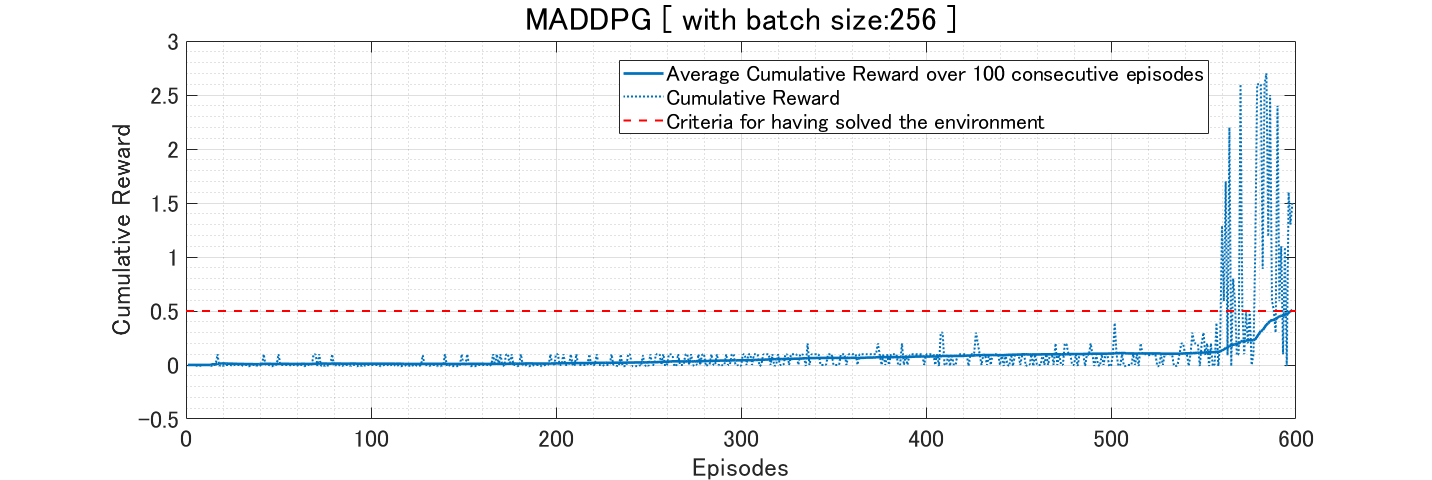
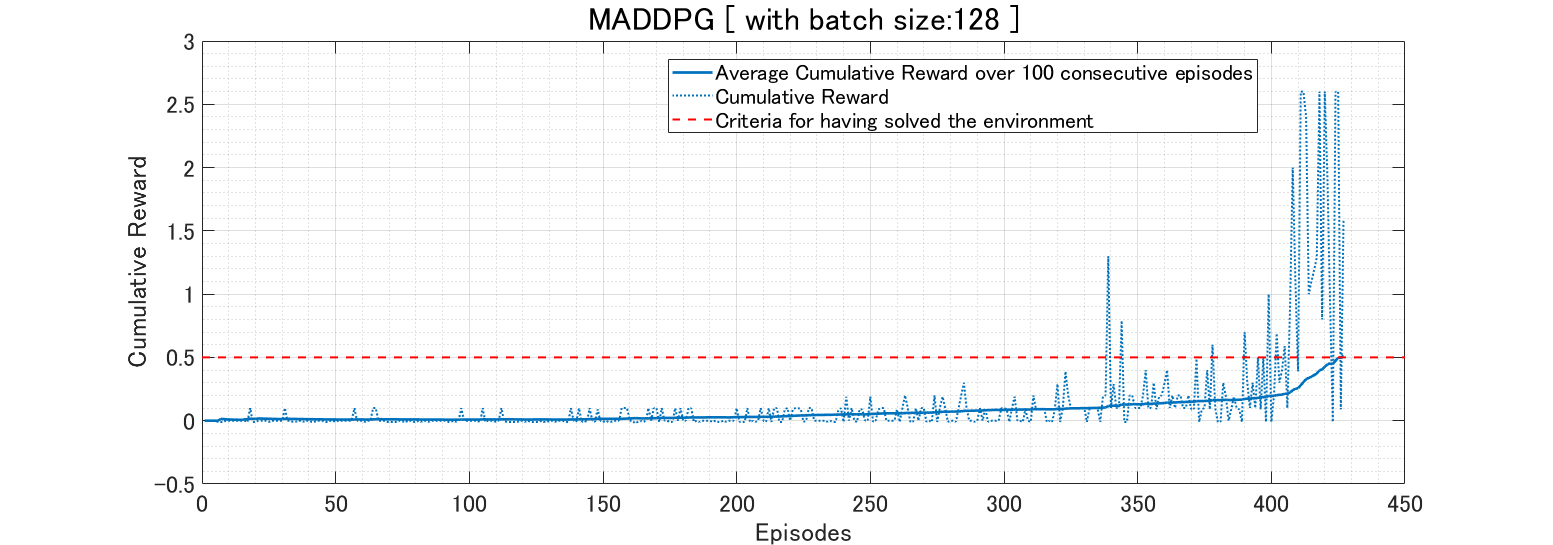
docs: Update documentation

Changed region(s): [[0.0615, 0.0, 0.9218, 0.8125], [0.0922, 0.8438, 0.9218, 1.0], [0.0922, 0.1562, 0.1536, 0.2188]]

diff --git a/MADDPG/Tennis/docs/Report.md b/MADDPG/Tennis/docs/Report.md
@@ -1,7 +1,7 @@
 # Project 3: Collaboration and Competition
 
 <p align="center">
-    <img src="../../../assets/tennis_maddpg_test.gif" height="250px">
+    <img src="../../../assets/tennis_maddpg_test.gif" height="350px">
 </p>
 
 ## Description
@@ -109,7 +109,7 @@ The best performance of certain parameter configurations will be reach 0.5 (aver
 </p>
 
 ## Result
-The environment is solved in 600 episodes by [MADDPG](https://github.com/dganbold/deep_reinforcement_learning/blob/master/MADDPG/agent/MADDPG.py) with [hyperparameters](https://github.com/dganbold/deep_reinforcement_learning/blob/master/MADDPG/config/UnityML_Agent.py). [[score history]](../scores/Tennis_MADDPG_1.0E-03_1.0E-03_256_5.0E-02_256.csv).
+The environment is solved in 427 episodes by [MADDPG](https://github.com/dganbold/deep_reinforcement_learning/blob/master/MADDPG/agent/MADDPG.py) with [hyperparameters](https://github.com/dganbold/deep_reinforcement_learning/blob/master/MADDPG/config/UnityML_Agent.py). [[score history]](../scores/Tennis_MADDPG_1.0E-03_1.0E-03_256_4.3E-02_128.csv).
 <p align="center">
     <img src="tennis_maddpg_learning_curve.png" height="260">
 </p>

diff --git a/MADDPG/Tennis/README.md b/MADDPG/Tennis/README.md
@@ -1,7 +1,7 @@
 # Tennis
 
 <p align="center">
-    <img src="../../assets/tennis_maddpg_test.gif" height="250px">
+    <img src="../../assets/tennis_maddpg_test.gif" height="350px">
 </p>
 
 ## Description
@@ -54,7 +54,7 @@ $ python test.py
 ```
 
 # Result
-The environment is solved in 600 episodes by [MADDPG](https://github.com/dganbold/deep_reinforcement_learning/blob/master/MADDPG/agent/MADDPG.py) with [hyperparameters](https://github.com/dganbold/deep_reinforcement_learning/blob/master/MADDPG/config/UnityML_Agent.py). [[score history]](scores/Tennis_MADDPG_1.0E-03_1.0E-03_256_5.0E-02_256.csv).<br />
+The environment is solved in 427 episodes by [MADDPG](https://github.com/dganbold/deep_reinforcement_learning/blob/master/MADDPG/agent/MADDPG.py) with [hyperparameters](https://github.com/dganbold/deep_reinforcement_learning/blob/master/MADDPG/config/UnityML_Agent.py). [[score history]](scores/Tennis_MADDPG_1.0E-03_1.0E-03_256_4.3E-02_128.csv).<br />
 See the detailed project report from [Report.md](./docs/Report.md) file.
 <p align="center">
     <img src="./docs/tennis_maddpg_learning_curve.png" height="260">

diff --git a/MADDPG/README.md b/MADDPG/README.md
@@ -71,10 +71,24 @@ all observations, rewards and joint actions. <br />
 
 ## Result
 
+<p align="center">
+    <em>Unity Reacher environment, MADDPG Learning curve.</em>
+</p>
+<p align="center">
+    <img src="./Tennis/docs/tennis_maddpg_learning_curve.png" height="220">
+</p>
+
+<p align="center">
+    <em>Unity Reacher environment, trained MADDPG.</em>
+</p>
+<p align="center">
+    <img src="../assets/tennis_maddpg_test.gif" height="300px">
+</p>
+
 ## Supported environments
 
 ### Unity
-- [`Tennis`](https://github.com/dganbold/deep_reinforcement_learning/tree/master/MADDPG/Tennis) with MADDPG | solved in 600 episodes
+- [`Tennis`](https://github.com/dganbold/deep_reinforcement_learning/tree/master/MADDPG/Tennis) with MADDPG | solved in 427 episodes
 
 ## Usage
 
